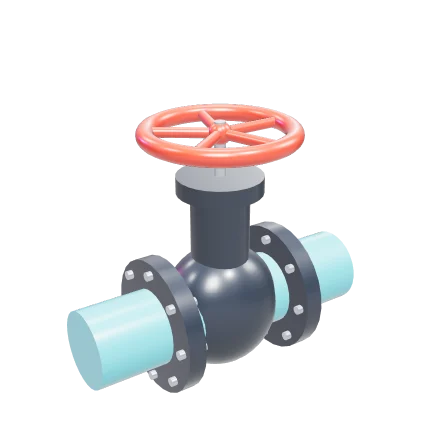
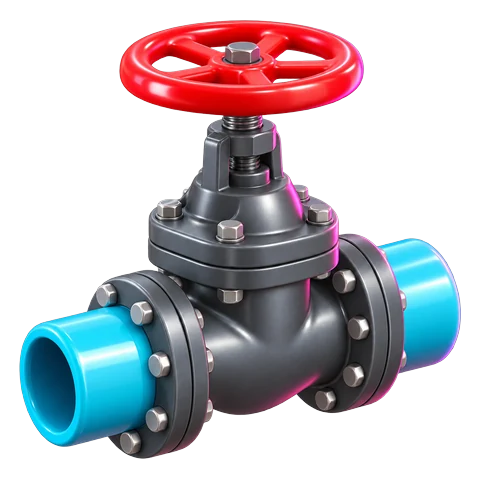
Home page: the generated valve for the About section
Replaces the bottom-left placeholder with Ajmal's generated gate valve,
trimmed to its edges and fitted to a 480px square WebP with its
transparency kept.

Claude-Session: https://claude.ai/code/session_01YPipLgghCYpxQS9JpqdTrz

diff --git a/landing/IMAGE-PROMPTS.md b/landing/IMAGE-PROMPTS.md
@@ -12,6 +12,8 @@ complete without them. Replace them in any order.
 3. Claude fits it to the slot as WebP, replaces the placeholder, checks the
    page and pushes it.
 
+Done so far: `about-valve`.
+
 Order that matters most: the portrait, then the three projects, then the four
 About icons, then the marquee.
 
